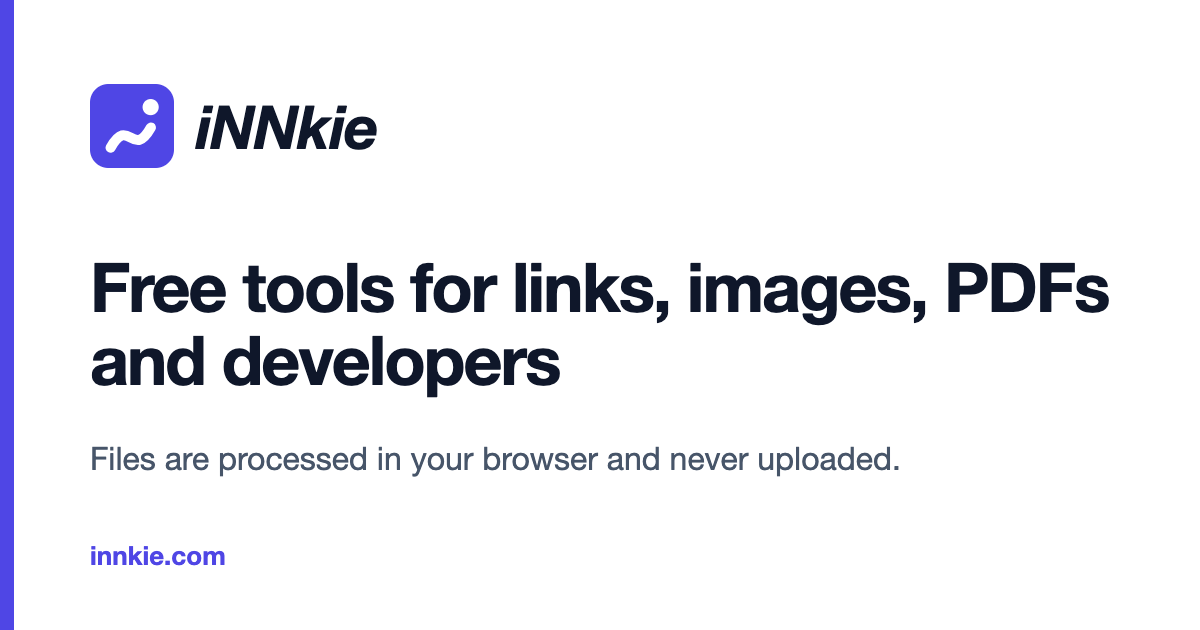
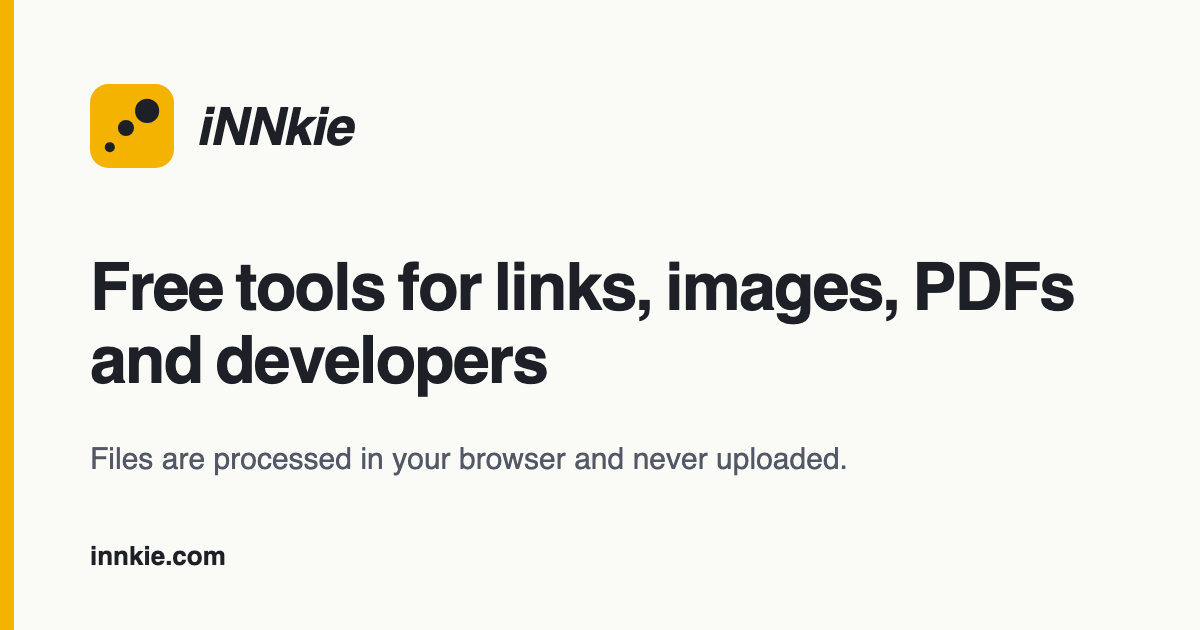
feat: rebrand to the Hop mark (yellow tile, three growing dots), charcoal default accent
New favicon/icon set, logo mark, email logo, manifest and 1200x630 share image.
Default accent (primary-*, QR default, chart and email fallbacks) is charcoal; brand
yellow is --color-brand. Footer no longer inverts the logo. Typography unchanged.

diff --git a/web/src/components/app/TrafficHub.tsx b/web/src/components/app/TrafficHub.tsx
@@ -58,8 +58,8 @@ export function TrafficHub() {
   const countries = stats?.countries ?? {};
   const maxCountry = Math.max(0, ...Object.values(countries));
   const totalClicks = evolution.reduce((n, d) => n + d.clicks, 0);
-  const palette = [themeHex(600, '#4f46e5'), '#0891b2', '#059669', '#d97706', '#9333ea', '#94a3b8'];
-  const deviceColors = [themeHex(600, '#4f46e5'), themeHex(400, '#818cf8'), themeHex(200, '#c7d2fe')];
+  const palette = [themeHex(600, '#1d2127'), '#0891b2', '#059669', '#d97706', '#9333ea', '#94a3b8'];
+  const deviceColors = [themeHex(600, '#1d2127'), themeHex(400, '#616468'), themeHex(200, '#c6c8c9')];
   const countryRows = Object.entries(countries).filter(([, v]) => v > 0).map(([name, value]) => ({ name, value })).sort((a, b) => b.value - a.value).slice(0, 10);
   const kpis: [string, string][] = [
     ['Clicks', totalClicks.toLocaleString('en-US')],
@@ -96,7 +96,7 @@ export function TrafficHub() {
         </div>
         <div className="h-[320px] relative">
           {loading && <Loading />}
-          <LineChart labels={evolution.map((d) => d.date)} series={[{ label: 'Clicks', data: evolution.map((d) => d.clicks), color: themeHex(600, '#4f46e5') }]} />
+          <LineChart labels={evolution.map((d) => d.date)} series={[{ label: 'Clicks', data: evolution.map((d) => d.clicks), color: themeHex(600, '#1d2127') }]} />
           {noClicks && <div className="absolute inset-0 bg-white/90 flex items-center justify-center"><p className="text-sm text-slate-500">No clicks in this period yet.</p></div>}
         </div>
       </section>

diff --git a/web/src/app/globals.css b/web/src/app/globals.css
@@ -3,20 +3,20 @@
 /*
   Runtime-themable primary palette. The app sets --primary-N (space-separated RGB channels)
   on :root (see lib/theme.ts); Tailwind's `primary-*` utilities resolve through these.
-  Default is indigo, same as the Angular app.
+  Default is the brand charcoal (#1d2127); the brand yellow is --color-brand.
 */
 :root {
-  --primary-50: 238 242 255;
-  --primary-100: 224 231 255;
-  --primary-200: 199 210 254;
-  --primary-300: 165 180 252;
-  --primary-400: 129 140 248;
-  --primary-500: 99 102 241;
-  --primary-600: 79 70 229;
-  --primary-700: 67 56 202;
-  --primary-800: 55 48 163;
-  --primary-900: 49 46 129;
-  --primary-950: 30 27 75;
+  --primary-50: 244 244 244;
+  --primary-100: 232 233 233;
+  --primary-200: 198 200 201;
+  --primary-300: 165 166 169;
+  --primary-400: 97 100 104;
+  --primary-500: 29 33 39;
+  --primary-600: 26 30 35;
+  --primary-700: 23 26 31;
+  --primary-800: 20 23 27;
+  --primary-900: 17 20 23;
+  --primary-950: 14 16 20;
   --on-primary: 255 255 255; /* text on primary buttons; lib/theme.ts switches it to dark for light accents */
 }
 
@@ -33,6 +33,7 @@
   --color-primary-900: rgb(var(--primary-900));
   --color-primary-950: rgb(var(--primary-950));
   --color-on-primary: rgb(var(--on-primary));
+  --color-brand: #f5b301;
   --font-sans: var(--font-inter), ui-sans-serif, system-ui, -apple-system, "Segoe UI", Roboto, "Helvetica Neue", Arial, sans-serif;
 }
 

diff --git a/functions/src/email/templates/welcome.template.ts b/functions/src/email/templates/welcome.template.ts
@@ -11,7 +11,7 @@ function escapeHtml(str: string): string {
 export const getWelcomeEmailTemplate = (
   userName: string = "there"
 ) => {
-  const brandColor = "#4f46e5"; // Default iNNkie Indigo
+  const brandColor = "#1d2127"; // Default iNNkie charcoal
   const safeName = escapeHtml(userName);
   const currentYear = new Date().getFullYear();
 
@@ -57,7 +57,7 @@ export const getWelcomeEmailTemplate = (
           </div>
           <p style="font-size: 12px; color: #94a3b8; margin: 0; font-weight: 500;">Sent via iNNkie Utility Platform</p>
           <div style="margin-top: 12px; margin-bottom: 4px;">
-            <a href="https://www.linkedin.com/company/innkie/" style="color: #4f46e5; text-decoration: none; font-size: 11px; font-weight: 700; text-transform: uppercase; letter-spacing: 0.05em;">Follow us on LinkedIn</a>
+            <a href="https://www.linkedin.com/company/innkie/" style="color: #1d2127; text-decoration: none; font-size: 11px; font-weight: 700; text-transform: uppercase; letter-spacing: 0.05em;">Follow us on LinkedIn</a>
           </div>
           <p style="font-size: 11px; color: #cbd5e1; margin-top: 8px; font-weight: 500;">&copy; ${currentYear} iNNkie Platform. All rights reserved.</p>
         </div>

diff --git a/web/src/components/app/DashboardOverview.tsx b/web/src/components/app/DashboardOverview.tsx
@@ -136,14 +136,14 @@ export function DashboardOverview() {
           </div>
           <div className="h-[300px] relative">
             {tab === 'links' ? (
-              <LineChart labels={clickSeries.map((d) => d.date)} series={[{ label: 'Clicks', data: clickSeries.map((d) => d.clicks), color: themeHex(600, '#4f46e5') }]} />
+              <LineChart labels={clickSeries.map((d) => d.date)} series={[{ label: 'Clicks', data: clickSeries.map((d) => d.clicks), color: themeHex(600, '#1d2127') }]} />
             ) : (
               <LineChart
                 legend
                 labels={sorted.map((s) => s.date)}
                 series={[
                   { label: 'Tool uses', data: sorted.map((s) => ((s.metrics as any)?.imagesCompressed || 0) + ((s.metrics as any)?.qrsGenerated || 0) + ((s.metrics as any)?.otherToolsUsage || 0)), color: '#059669' },
-                  { label: 'Links shortened', data: sorted.map((s) => (s.metrics as any)?.linksShortened || 0), color: themeHex(600, '#4f46e5') },
+                  { label: 'Links shortened', data: sorted.map((s) => (s.metrics as any)?.linksShortened || 0), color: themeHex(600, '#1d2127') },
                 ]}
               />
             )}

diff --git a/functions/src/email/templates/shortened-link.template.ts b/functions/src/email/templates/shortened-link.template.ts
@@ -11,7 +11,7 @@ function escapeHtml(str: string): string {
 export const getShortenedLinkTemplate = (
   originalUrl: string,
   shortUrl: string,
-  brandColor: string = "#4f46e5",
+  brandColor: string = "#1d2127",
   brandName: string = "Personal"
 ) => {
   const safeOriginalUrl = escapeHtml(originalUrl);
@@ -83,7 +83,7 @@ export const getShortenedLinkTemplate = (
           </div>
           <p style="font-size: 12px; color: #94a3b8; margin: 0; font-weight: 500;">Sent via iNNkie Utility Platform</p>
           <div style="margin-top: 12px; margin-bottom: 4px;">
-            <a href="https://www.linkedin.com/company/innkie/" style="color: #4f46e5; text-decoration: none; font-size: 11px; font-weight: 700; text-transform: uppercase; letter-spacing: 0.05em;">Follow us on LinkedIn</a>
+            <a href="https://www.linkedin.com/company/innkie/" style="color: #1d2127; text-decoration: none; font-size: 11px; font-weight: 700; text-transform: uppercase; letter-spacing: 0.05em;">Follow us on LinkedIn</a>
           </div>
           <p style="font-size: 11px; color: #cbd5e1; margin-top: 8px; font-weight: 500;">&copy; ${currentYear} iNNkie Platform. All rights reserved.</p>
         </div>

diff --git a/web/src/components/app/LinkDetails.tsx b/web/src/components/app/LinkDetails.tsx
@@ -178,7 +178,7 @@ export function LinkDetails() {
             {[7, 30, 90].map((d) => <button key={d} type="button" aria-pressed={range === d} onClick={() => void loadSeries(d)} className={`px-3 py-1 text-sm rounded-md transition-colors ${range === d ? 'bg-white text-slate-900 font-medium shadow-sm' : 'text-slate-600 hover:text-slate-900'}`}>{d} days</button>)}
           </div>
         </div>
-        <div className="h-64"><LineChart labels={series.map((x) => x.date)} series={[{ label: 'Clicks', data: series.map((x) => x.clicks), color: themeHex(600, '#4f46e5') }]} /></div>
+        <div className="h-64"><LineChart labels={series.map((x) => x.date)} series={[{ label: 'Clicks', data: series.map((x) => x.clicks), color: themeHex(600, '#1d2127') }]} /></div>
       </section>
 
       <div className="grid grid-cols-1 lg:grid-cols-12 gap-6">

diff --git a/web/src/components/app/SettingsPage.tsx b/web/src/components/app/SettingsPage.tsx
@@ -13,7 +13,7 @@ import { useWorkspace } from '@/lib/workspace';
 const USERNAME_RE = /^[a-z0-9.-]{3,30}$/;
 const HEX_RE = /^#[0-9a-f]{6}$/i;
 const EMAIL_RE = /^[^\s@]+@[^\s@]+\.[^\s@]+$/;
-const DEFAULT_COLOR = '#4f46e5'; // same as the app's built-in accent (lib/theme.ts)
+const DEFAULT_COLOR = '#1d2127'; // same as the app's built-in accent (lib/theme.ts)
 
 const card = 'rounded-lg border border-slate-200 bg-white shadow-xs';
 const text = 'block w-full rounded-md border border-slate-300 bg-white px-3 py-2 text-sm text-slate-900 placeholder-slate-400 outline-none focus:border-primary-600 focus:ring-2 focus:ring-primary-200';

diff --git a/web/src/components/layout/Footer.tsx b/web/src/components/layout/Footer.tsx
@@ -22,7 +22,7 @@ export function Footer() {
       <div className="max-w-6xl mx-auto px-4 sm:px-6 lg:px-8 pt-16 pb-10">
         <div className="grid grid-cols-2 lg:grid-cols-[1.3fr_repeat(4,1fr)] gap-x-8 gap-y-12">
           <div className="col-span-2 lg:col-span-1 space-y-5">
-            <Logo showText size="36px" className="brightness-0 invert" />
+            <Logo showText size="36px" className="[&_span]:!text-white" />
             <p className="text-sm leading-relaxed max-w-xs">Free web tools that run in your browser, plus short links and QR codes you can track.</p>
             <LinkCounter />
           </div>

diff --git a/web/src/components/app/QrDesignControls.tsx b/web/src/components/app/QrDesignControls.tsx
@@ -28,7 +28,7 @@ const DIRECTIONS: { id: Direction; label: string }[] = [
   { id: 'vertical', label: 'Vertical' },
   { id: 'radial', label: 'Radial' },
 ];
-const COLOR_PRESETS = ['#000000', '#4F46E5', '#10B981', '#F59E0B', '#EF4444', '#EC4899', '#8B5CF6', '#06B6D4'];
+const COLOR_PRESETS = ['#000000', '#1D2127', '#10B981', '#F59E0B', '#EF4444', '#EC4899', '#8B5CF6', '#06B6D4'];
 const BG_PRESETS = ['#ffffff', '#F8FAFC', '#FEF3C7', '#E0E7FF'];
 const LOGOS = [
   { name: 'None', src: null },

diff --git a/functions/src/email/sendShortenedEmail.ts b/functions/src/email/sendShortenedEmail.ts
@@ -24,7 +24,7 @@ export async function sendShortenedEmailHandler(
     log.info("Preparing to send shortened link email", "sendShortenedEmailHandler", { email: data.email, shortUrl: data.shortUrl });
 
     // Fetch Workspace branding if available
-    let brandColor = "#4f46e5"; // Default iNNkie Indigo
+    let brandColor = "#1d2127"; // Default iNNkie charcoal
     let brandName = "Personal";
     
     if (data.workspaceId) {

diff --git a/web/src/lib/qr-config.ts b/web/src/lib/qr-config.ts
@@ -27,8 +27,8 @@ export const DEFAULT_DESIGN: QrDesign = {
   cornersSquareType: 'extra-rounded',
   cornersDotType: 'dot',
   colorMode: 'single',
-  selectedColor: '#4F46E5',
-  startColor: '#4F46E5',
+  selectedColor: '#1D2127',
+  startColor: '#1D2127',
   endColor: '#EC4899',
   gradientDirection: 'diagonal',
   backgroundColor: '#ffffff',

diff --git a/functions/src/email/handlers/on-url-shortened-send-email.ts b/functions/src/email/handlers/on-url-shortened-send-email.ts
@@ -35,7 +35,7 @@ export const onUrlShortenedSendEmailHandler = async (
     }
 
     // Fetch Workspace branding if available
-    let brandColor = "#4f46e5"; // Default iNNkie Indigo
+    let brandColor = "#1d2127"; // Default iNNkie charcoal
     let brandName = "Personal";
     
     if (workspaceId) {
